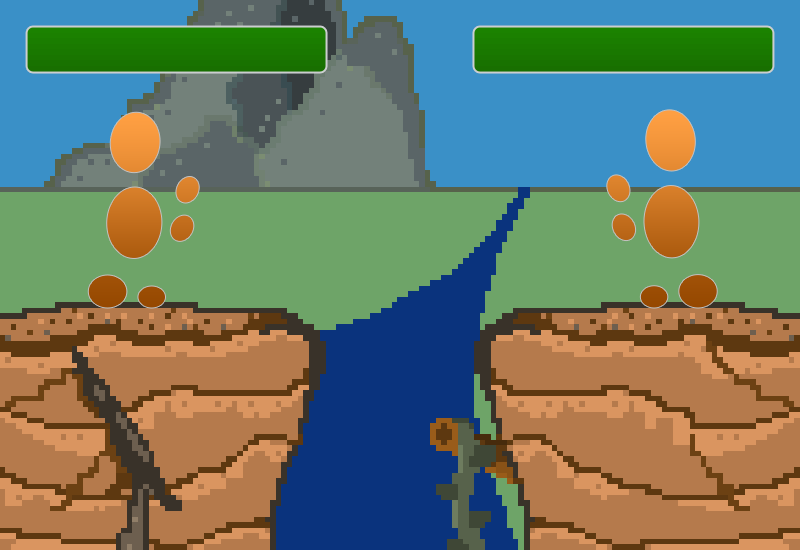
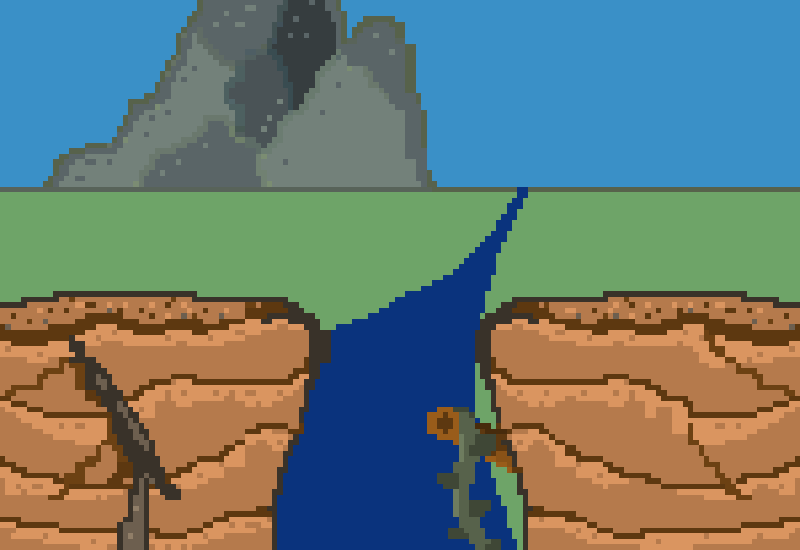
Added health bar

diff --git a/battle.js b/battle.js
@@ -9,7 +9,7 @@ function Battle() {
 	this.initBattleUI = function(playerId) {
 		// make a skill boxes for each player
 		this.skillQueueBoxes = [];
-
+		this.healthBars = [];
 
 		this.initBattleUIForPlayer(players[0], -MENU_CENTER_DISTANCE);
 		this.initBattleUIForPlayer(players[1], MENU_CENTER_DISTANCE);	
@@ -18,10 +18,56 @@ function Battle() {
 	this.initBattleUIForPlayer = function(player, centerX) {
 		this.skillQueueBoxes[player.id] = new SkillQueueBox(player.id, centerX);
 		this.skillQueueBoxes[player.id].init();
+		this.healthBars[player.id] = new HealthBar(player.id, centerX);
+		this.healthBars[player.id].init();
+	}
 
+	this.gameOver = function(winnerId) {
+		winnerOverlay = new GameResultsOverlay(winnerId);
 	}
 }
 
+function HealthBar(playerId, centerX) {
+	this.init = function() {
+		var queueGroup = new Kinetic.Group();
+
+		var barHeight = 42;
+		var barWidth = stage.getWidth()/2 - 100;
+		
+		var health = new Kinetic.Rect({
+			height:barHeight,
+			width:barWidth,
+			fill: {
+		        image: images.health_bar,
+		        offset: [0, 0],
+		    },
+			x:0,
+			y:0,
+		})
+		queueGroup.add(health);
+
+		var background = new Kinetic.Rect({
+			height:barHeight,
+			width:barWidth,
+			stroke:"white",
+		    strokeWidth:5,
+			x:0,
+			y:0,
+		});
+		queueGroup.add(background);
+
+
+
+		queueGroup.setPosition(centerX - background.getWidth() / 2, 20);
+		hudLayer.add(queueGroup);
+
+		this.update();
+	}
+
+	this.update = function() {
+
+	}
+}
 
 function SkillQueueBox(playerId, centerX) {
 	this.init = function() {
@@ -35,14 +81,14 @@ function SkillQueueBox(playerId, centerX) {
 			fill:"black",
 			opacity:0.4,
 			x:0,
-			y:0,
+			y:25,
 		});
 
 		queueGroup.add(background);
 
 		// skills. build up from bottom of screen
 		var skillIconSize = 50;
-		var paddingTopBot = 20 + skillIconSize / 2;
+		var paddingTopBot = 30 + skillIconSize / 2;
 		var skillIconGap = ((stage.getHeight() / 2) - (paddingTopBot*2) - (skillIconSize * (SKILL_QUEUE_SIZE - 1))) / (SKILL_QUEUE_SIZE-1)
 		this.icons = [];
 		this.arrows = [];
@@ -83,7 +129,7 @@ function SkillQueueBox(playerId, centerX) {
 			}
 
 		}
-		queueGroup.setPosition(centerX - background.getWidth() / 2, stage.getHeight() / 2);
+		queueGroup.setPosition(centerX - background.getWidth() / 2, stage.getHeight() / 2 + 20);
 		hudLayer.add(queueGroup);
 
 		this.update(players[playerId]);
@@ -120,4 +166,8 @@ function SkillQueueBox(playerId, centerX) {
 		}
         hudLayer.draw();
 	}
+}
+
+function GameResultsOverlay(winnerId) {
+
 }

diff --git a/game.js b/game.js
@@ -23,6 +23,26 @@ function Player(id, dir, udlre) {
         this.resetSkillQueue();
     };
 
+    this.damage = function(damage) {
+        // damage the player
+        this.hp = this.hp - damage;
+
+        // check if the player is still alive
+        if (this.hp <= 0) {
+            // PWNED
+            battle.gameOver(opponentId);
+        }
+    }
+
+    this.heal = function(healed) {
+        this.hp = this.hp + healed;
+        if (this.hp > 100) {
+            this.hp = 100;
+        }
+    }
+
+
+
     /** Returns KEY_X for the given event keycode, -1 on no match */
     this.getUdlre = function(evt) {
         var keyCode = evt.keyCode;
@@ -122,5 +142,5 @@ function Player(id, dir, udlre) {
         this.reset();     
     }
    
-    playerLayer.add(this.shape);
+    //playerLayer.add(this.shape);
 }

diff --git a/main.js b/main.js
@@ -250,6 +250,7 @@ function load_assets() {
     images["arrow_left_sel"] = loader.addImage("arrow_left_sel.png");
     images["ready_button"] = loader.addImage("ready_button.png");
     images["ddr_arrow_left"] = loader.addImage("ddr_left_arrow.png");
+    images["health_bar"] = loader.addImage("health-bar.png");
 
     loader.addProgressListener(function(e) {
         loadBar.setWidth(e.completedCount / e.totalCount * BAR_WIDTH);
